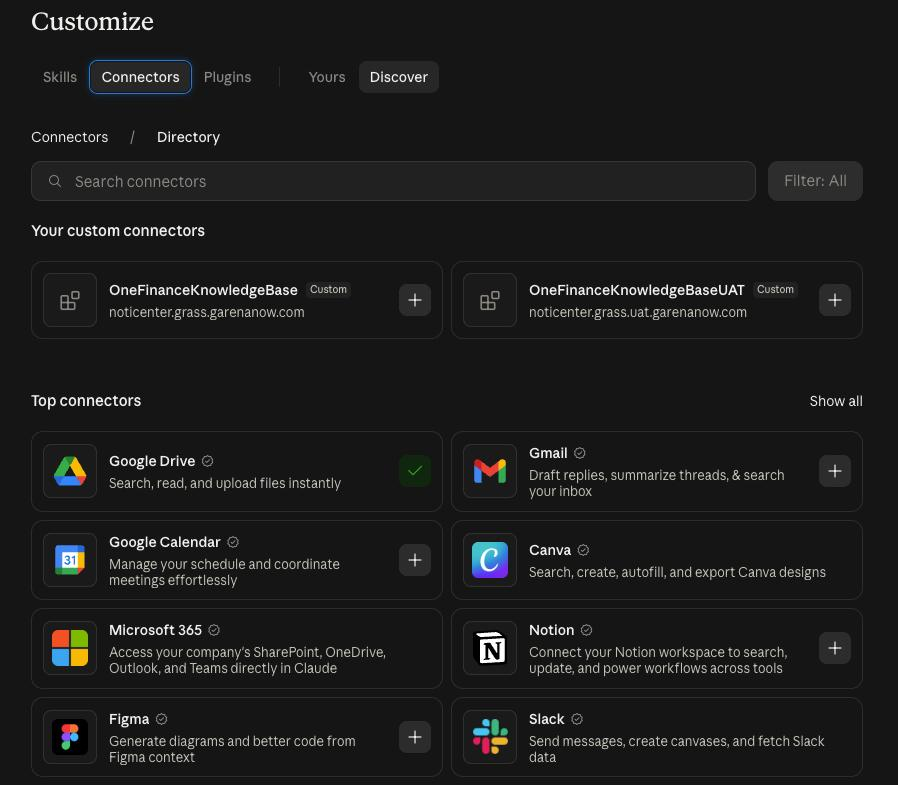
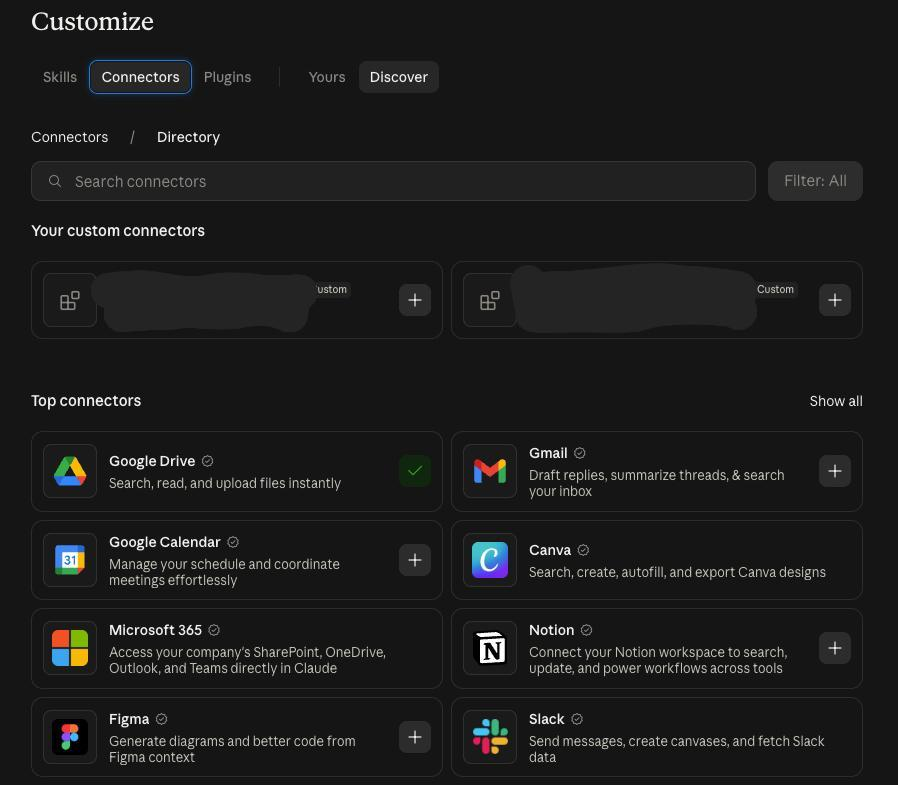
docs(01): treat Codex as OpenAI's client alongside ChatGPT; masked Cowork screenshot

Changed region(s): [[0.5924, 0.3669, 0.8419, 0.428], [0.1247, 0.3669, 0.343, 0.428]]

diff --git a/docs/01-what-is-a-connector.md b/docs/01-what-is-a-connector.md
@@ -4,9 +4,9 @@
 
 ## 1. 那个叫 Connectors 的按钮
 
-打开 2026 年的任何一个主流 AI 客户端，设置里都有一页长得差不多的东西：一排 Gmail、Google Drive、Notion、GitHub、Slack 的图标，每个后面一个"Add"或"Install"。名字不太一样，Claude 叫 Connectors，OpenAI 这边在 Codex 应用里叫 Plugins，Grok 叫 Marketplace 里的 Plugins。
+打开 2026 年的任何一个主流 AI 客户端，设置里都有一页长得差不多的东西：一排 Gmail、Google Drive、Notion、GitHub、Slack 的图标，每个后面一个"Add"或"Install"。名字不太一样，Claude 叫 Connectors，OpenAI 这边叫 Apps & Connectors，在 Codex 应用里显示为 Plugins，Grok 叫 Marketplace 里的 Plugins。
 
-![Codex 应用的 Plugins 页](images/01-connectors-codex.jpeg)
+![OpenAI 的 Plugins 页（Codex 应用，与 ChatGPT 共用同一套 connector）](images/01-connectors-codex.jpeg)
 
 ![Claude 的 Customize → Connectors 目录页，上方是自定义 connector，下方是官方目录](images/01-connectors-cowork.jpeg)
 
@@ -48,7 +48,7 @@ MCP server 做三件事：
 
 传输层有两种。**stdio** 是客户端把 server 当子进程拉起来，走标准输入输出，只能本地用。**Streamable HTTP** 是 server 监听一个 URL，客户端发 HTTP 请求，可以远程。线上产品只接受后者，而且要 HTTPS。
 
-client 侧的配置就是告诉客户端"这个 server 在哪"。Claude Code 是一个 `.mcp.json`，Codex 是 `config.toml` 里一段 `[mcp_servers.xxx]`，ChatGPT、Claude.ai、Grok 是设置页里粘一个 URL。
+client 侧的配置就是告诉客户端"这个 server 在哪"。Claude Code 是一个 `.mcp.json`，Codex 是 `config.toml` 里一段 `[mcp_servers.xxx]`，ChatGPT、Claude.ai、Grok 是设置页里粘一个 URL。同一家的客户端共用一套：ChatGPT 里加的 connector 在 Codex 里也能看到，Claude.ai 里加的在 Cowork 与 Desktop 里也在。
 
 所以那排图标背后每一个都是一个 MCP server，通常由服务方自己托管。你在 Claude 里点 "Add" 和粘一个自定义 URL，客户端做的事完全相同。区别只是官方目录里的经过了审核。
 
@@ -72,11 +72,10 @@ client 侧的配置就是告诉客户端"这个 server 在哪"。Claude Code 是
 |---|---|---|
 | Claude.ai / Cowork / Desktop | Customize → Connectors → 添加自定义 connector，粘 URL | 远程 HTTPS |
 | Claude Code | 项目或用户级 `.mcp.json`，或 plugin 自带 | 本地 stdio、本地 HTTP、远程都可 |
-| ChatGPT | Settings → Apps & Connectors → Advanced → Developer mode 后新建，粘 URL | 远程 HTTPS，需 Plus / Pro 或企业管理员开放 |
-| Codex | `codex mcp add` 或 `~/.codex/config.toml` | 本地 stdio 与远程 HTTP 都可 |
+| ChatGPT / Codex | ChatGPT：Settings → Apps & Connectors → Advanced → Developer mode 后新建，粘 URL；Codex：`codex mcp add` 或 `~/.codex/config.toml` | ChatGPT 远程 HTTPS，需 Plus / Pro 或企业管理员开放；Codex 本地与远程都可 |
 | Grok | grok.com/connectors → New Connector → Custom，粘 URL | 远程 HTTPS |
 
-注意最后一列。**线上聊天类客户端只接受公网 HTTPS，本机跑的服务只有 Claude Code、Codex 这类本地客户端能直接连。** 这就是本教程选 Claude Code 做演示的原因：三个模拟系统在本机起，不用申请域名和证书，读者十分钟能跑起来。同样的 server 加上 HTTPS 和鉴权，就能接到 Cowork 或 ChatGPT 上，协议层不用改。
+注意最后一列。**线上聊天类客户端只接受公网 HTTPS，本机跑的服务只有 Claude Code、Codex CLI 这类本地客户端能直接连。** 这就是本教程选 Claude Code 做演示的原因：三个模拟系统在本机起，不用申请域名和证书，读者十分钟能跑起来。同样的 server 加上 HTTPS 和鉴权，就能接到 Cowork 或 ChatGPT 上，协议层不用改。
 
 ## 5. 一个成体系的案例：Claude for Financial Advisors
 
